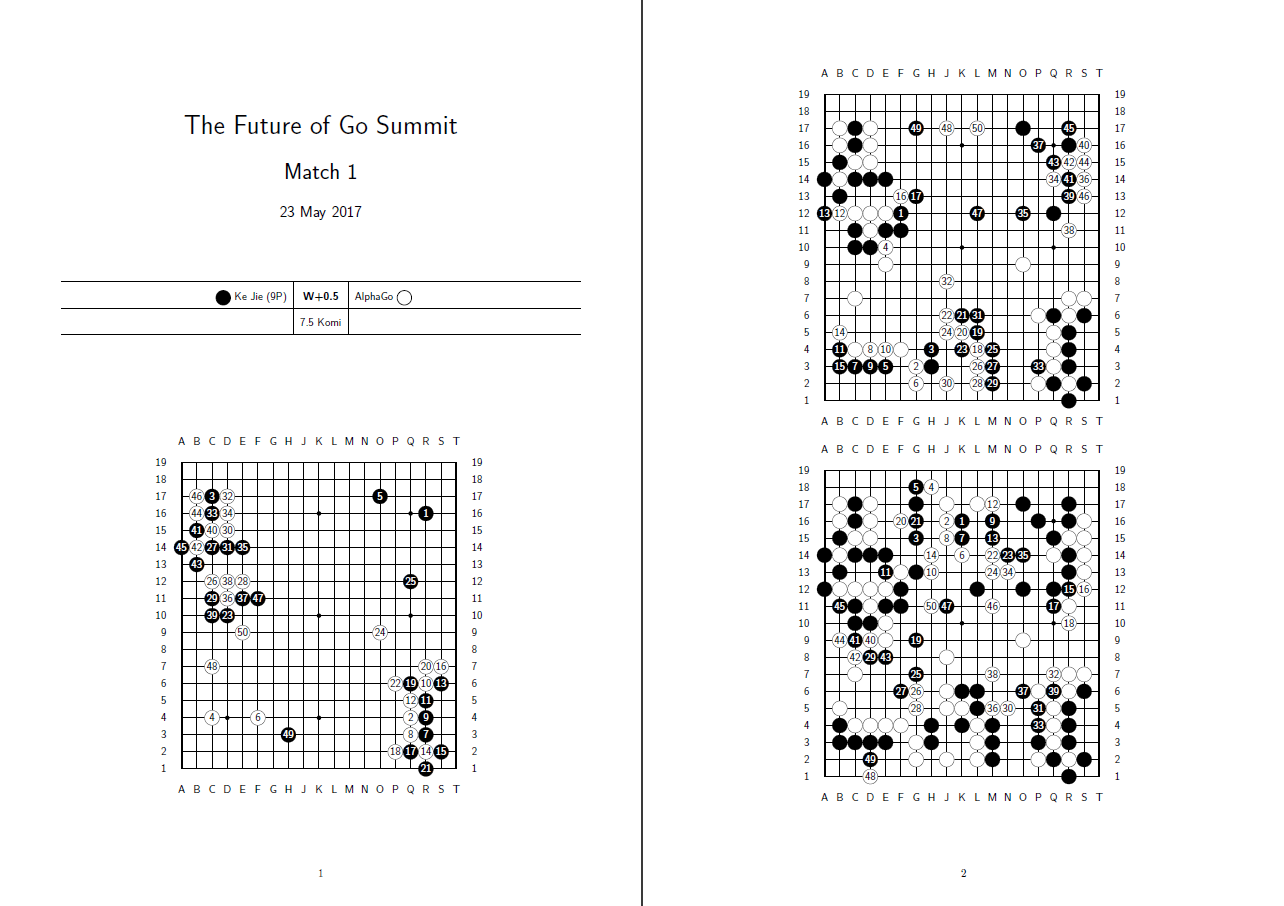
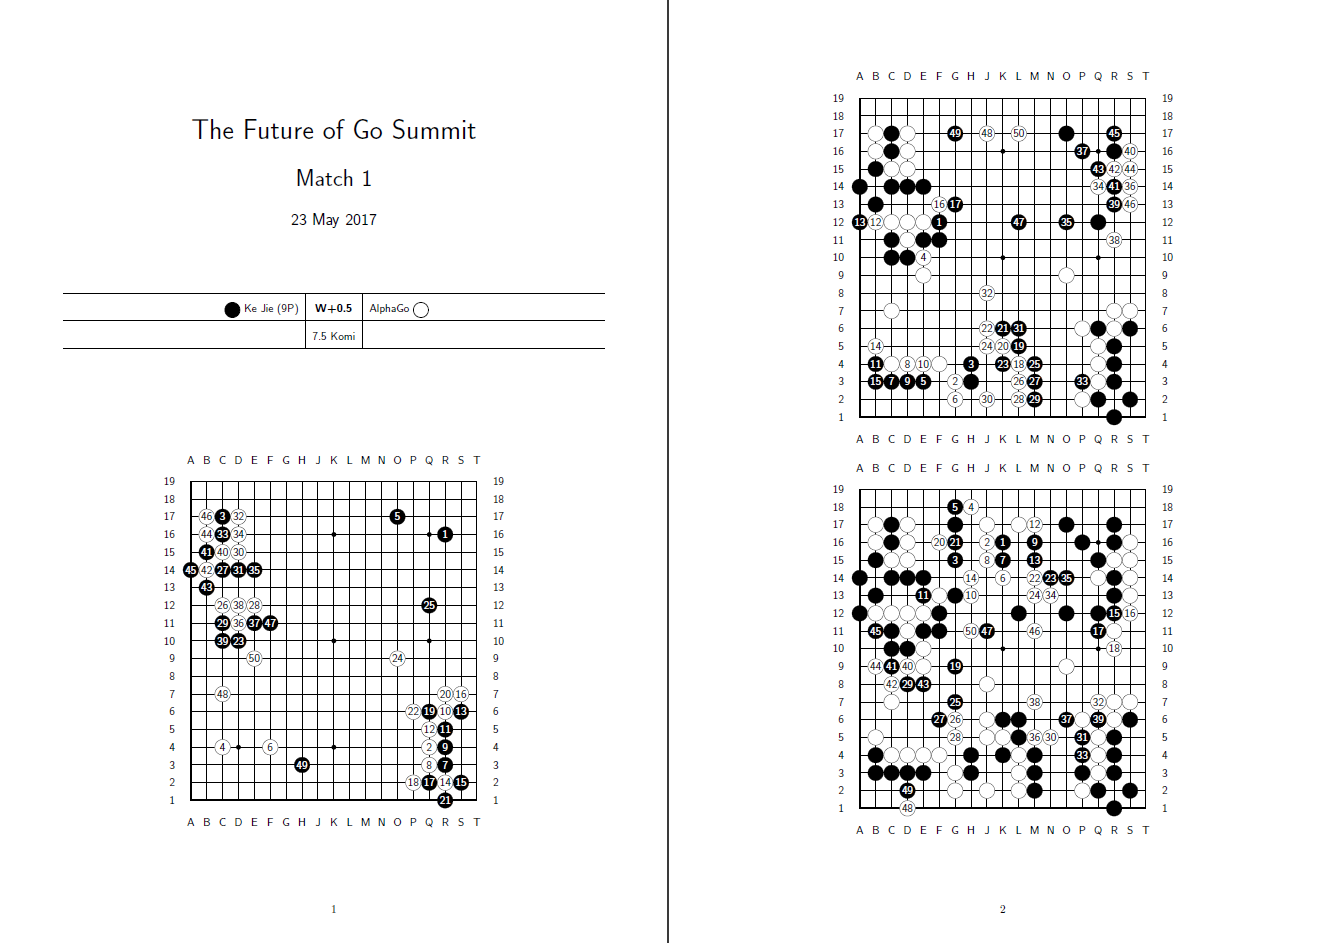
Added go borad simulator to remove dead stones.

diff --git a/simpleGoBoard.py b/simpleGoBoard.py
@@ -1,0 +1,216 @@
+import itertools
+from pprint import pprint
+
+blackMoves = []
+whiteMoves = []
+boardSize = 19
+
+board = []
+blackGroups = []
+whiteGroups = []
+
+def get_neighbouring_coordinates(point):
+    neighbours = []
+    potentialNeighbours = [
+        (point[0]-1,point[1]),
+        (point[0]+1,point[1]),
+        (point[0],point[1]-1),
+        (point[0],point[1]+1)
+    ]
+
+    for point in potentialNeighbours:
+        if 1 <= point[0] <= 19 and 1 <= point[1] <= 19:
+            neighbours.append(point)
+
+    return neighbours
+
+def get_neighbouring_groups(position, color):
+    groups = whiteGroups if color == "w" else blackGroups
+
+    neighbouringGroups = set()
+    neighbours = get_neighbouring_coordinates(position)
+
+    for point in neighbours:
+        for index, group in enumerate(groups):
+            if point in group:
+                neighbouringGroups.add(index)
+
+    return list(neighbouringGroups)
+
+
+def get_liberties(group):
+    ret = set()
+    for point in group:
+        neighbours = get_neighbouring_coordinates(point)
+        for neighbour in neighbours:
+            if board[neighbour[0]-1][neighbour[1]-1] == "":
+                ret.add(neighbour)
+    return ret
+
+
+def remove_dead_groups(color):
+    bothGroups = []
+
+    # get the order right so that black can kill a white
+    # group by playing into whites only eye (and not killing himself first)
+    if color == "w":
+        bothGroups = whiteGroups + blackGroups
+    else:
+        bothGroups = blackGroups + whiteGroups
+
+    # remove dead from board
+    for group in bothGroups:
+        if len(get_liberties(group)) == 0:
+            for pos in group:
+                board[pos[0]-1][pos[1]-1] = ""
+
+    # remove dead from groups lists
+    whiteGroups[:] = [ group for group in whiteGroups if len(get_liberties(group)) != 0 ]
+    blackGroups[:] = [ group for group in blackGroups if len(get_liberties(group)) != 0 ]
+
+def play_move(color, move):
+    playerGroups = whiteGroups if color == "w" else blackGroups
+
+    neighbouringGroups = get_neighbouring_groups(move, color)
+
+    # no neighbouring groups make new one
+    if len(neighbouringGroups) == 0:
+        playerGroups.append([(move[0], move[1])])
+    else:
+        # we want to merge everything into the first group and then pop the others in
+        # reverse index order so no indecies are getting wrong
+        neighbouringGroups.sort()
+        neighbouringGroups[1:] = neighbouringGroups[1:][::-1]
+
+        # 1 or more neighbouring groups -> extend first one
+        playerGroups[neighbouringGroups[0]].append((move[0], move[1]))
+
+        # if also more than one group -> merge with others
+        for i, group in enumerate(neighbouringGroups[1:]):
+            playerGroups[neighbouringGroups[0]].extend(playerGroups.pop(group))
+
+    board[move[0]-1][move[1]-1] = color
+    remove_dead_groups("w" if color == "b" else "b")
+
+
+def simulate_board_up_to(lastMoveNumber):
+    global board
+    global whiteGroups
+    global blackGroups
+
+    # reset board and groups
+    blackGroups = []
+    whiteGroups = []
+    board = [ [ "" for i in range(boardSize) ] for y in range(boardSize) ]
+    moveSequence = [ j for i in itertools.zip_longest(blackMoves,whiteMoves) for j in i ]
+
+    for i in range(len(blackMoves) + len(whiteMoves)):
+        if i == lastMoveNumber:
+            break
+
+        # blacks turn
+        if i % 2 == 0:
+            if len(blackMoves) == 0: continue
+            play_move("b", blackMoves[i//2])
+        else:
+            if len(whiteMoves) == 0: continue
+            play_move("w", whiteMoves[i//2])
+
+
+def show_board():
+    print(" "*3 + "A B C D E F G H J K L M N O P Q R S T")
+    i = 0
+    for y in range(boardSize):
+        i += 1
+        if boardSize-i+1 < 10:
+            print(f" {boardSize-i+1}", end="")
+        else:
+            print(f"{boardSize-i+1}", end="")
+
+        for x in range(boardSize):
+            if board[x][boardSize-y-1] == "":
+                print(" .", end="")
+            else:
+                print(" " + board[x][boardSize-y-1], end ="")
+
+        print(f" {boardSize-i+1}")
+    print(" "*3 + "A B C D E F G H J K L M N O P Q R S T")
+
+def get_latex_at_move(fromMove):
+    latexList = []
+
+    simulate_board_up_to(fromMove)
+    # just dumping the baord, nothing special
+    for y in range(len(board)):
+        for x in range(len(board)):
+            if board[x][y] != "":
+                color = "white" if board[x][y] == "w" else "black"
+                if ord("a")+x < ord("i"):
+                    firstCoordinate = chr(ord("a")+x)
+                else:
+                    firstCoordinate = chr(ord("a")+x+1)
+                latexList.append(f"\\stone{{{color}}}{{{firstCoordinate}}}{{{y+1}}}\n")
+
+    return latexList
+
+def produce_latex(fromMove, toMove, continousCounting):
+    # old moves
+    latexList = ["\\begin{psgoboard}\n\t"]
+    latexList.extend(get_latex_at_move(fromMove))
+
+    finished = False
+    moveCount = 1
+    if continousCounting:
+        moveCount = fromMove + 1
+
+    # new moves
+    for i in range(fromMove, len(blackMoves) + len(whiteMoves)):
+        if i == toMove: break
+        moves = []
+        color = ""
+
+        if i % 2 == 0: # blacks turn
+            moves = blackMoves
+            color = "black"
+        else: # whites turn
+            moves = whiteMoves
+            color = "white"
+
+        # if this player has no moves left -> continue
+        if len(moves) == 0: continue
+
+        x, y = moves[i//2]
+
+        # skip the 'i' coordinate
+        if ord("a")+x-1 < ord("i"):
+            firstCoordinate = chr(ord("a")+x-1)
+        else:
+            firstCoordinate = chr(ord("a")+x)
+
+        latexList.append(f"\\stone[\\marklb{{{moveCount}}}]{{{color}}}{{{firstCoordinate}}}{{{y}}}")
+        moveCount += 1
+
+    else:
+        # played the last move
+        finished = True
+
+    latexList.append("\n\\end{psgoboard}\n")
+    return latexList, finished
+
+
+if __name__ == '__main__':
+    blackMoves.append((4,4))
+    whiteMoves.append((4,3))
+    blackMoves.append((5,3))
+    whiteMoves.append((5,4))
+    blackMoves.append((3,3))
+    whiteMoves.append((3,4))
+    blackMoves.append((4,2))
+    whiteMoves.append((4,5))
+    blackMoves.append((10,10))
+    whiteMoves.append((4,3))
+    blackMoves.append((4,4))
+    whiteMoves.append((4,3))
+
+    produce_latex(7, 200)
+    show_board()

diff --git a/kifugen.py b/kifugen.py
@@ -3,6 +3,9 @@ import os
 import sys
 from subprocess import check_call, DEVNULL, STDOUT, CalledProcessError
 from shutil import copyfile, rmtree
+from pprint import pprint
+
+import simpleGoBoard
 
 parser = argparse.ArgumentParser(description='Convert sgf go records into a kifu format.')
 
@@ -26,6 +29,8 @@ header = sgfData[0]
 moves = sgfData[1:]
 
 def format_date(date):
+    if date == "":
+        return ""
     months = ["January", "February", "March", "April", "May", "June", "July", "August", "September", "October", "November", "December"]
     ds = date.split("-") # year month day
     ds.reverse()
@@ -67,45 +72,28 @@ def generate_title():
 
     return "".join(out)
 
-def generate_moves():
-    finished = False
+
+def init_simpleGoBoard():
+    for move in moves:
+        if len(move) == 5:
+            coordinates = (ord(move[2].lower())-ord("a")+1, parsedHeader["boardSize"]-ord(move[3].lower())+ord("a"))
+            if move[0].lower() == "w":
+                simpleGoBoard.whiteMoves.append(coordinates)
+            elif move[0].lower() == "b":
+                simpleGoBoard.blackMoves.append(coordinates)
+
+
+def generate_boards():
+    init_simpleGoBoard()
     outText = []
     for i in range(len(splitBoardAt)-1):
         currentSplit = splitBoardAt[i]
         nextSplit = splitBoardAt[i+1]
 
-        outText.append("\\begin{psgoboard}\n\t")
-
-        # old moves
-        for j in range(currentSplit):
-            firstCoordinate, secondCoordinate = extract_coordinates(moves[j])
-            if not (firstCoordinate == -1 or secondCoordinate == -1):
-                outText.append(f"\\move*{{{firstCoordinate}}}{{{secondCoordinate}}} ")
-                if j % 5 == 4:
-                    outText.append("\n\t")
-                elif secondCoordinate < 10: # nice spacing
-                    outText.append(" ")
-
-        # new moves
-        for j in range(nextSplit-currentSplit):
-            firstCoordinate, secondCoordinate = extract_coordinates(moves[currentSplit+j])
-            if not (firstCoordinate == -1 or secondCoordinate == -1):
-                outText.append(f"\\move{{{firstCoordinate}}}{{{secondCoordinate}}}  ")
-                if j % 5 == 4:
-                    outText.append("\n\t")
-                elif secondCoordinate < 10: # nice spacing
-                    outText.append(" ")
-
-            # was it the last move?
-            if currentSplit+j == len(moves)-1:
-                finished = True
-                break
-
-        outText.append("\n\\end{psgoboard}\n")
+        board, finished = simpleGoBoard.produce_latex(currentSplit, nextSplit, args.cn)
+        outText.extend(board)
         if finished:
             break
-        elif not args.cn:
-            outText.append("\n\\setcounter{gomove}{0}\n")
 
     return "".join(outText)
 
@@ -135,7 +123,7 @@ if parsedHeader["rankBlack"] != "":
     playerBlack += f" ({parsedHeader['rankBlack']})"
 if parsedHeader["rankWhite"] != "":
     playerWhite += f" ({parsedHeader['rankWhite']})"
-moves = generate_moves()
+boards = generate_boards()
 
 outText = f"""
 \\documentclass[a4paper]{{article}}
@@ -167,7 +155,7 @@ outText = f"""
   \\end{{tabularx}}
   \\vspace{{3cm}}
 
-{moves}
+{boards}
 
 \\end{{center}}
 \\end{{document}}
@@ -195,4 +183,4 @@ if not args.t:
         rmtree(f"{fileBase}/")
         # hould output be opened?
         if args.o:
-            os.system(f'"{fileBase}.pdf"')
+            os.startfile(f'"{fileBase}.pdf"')
